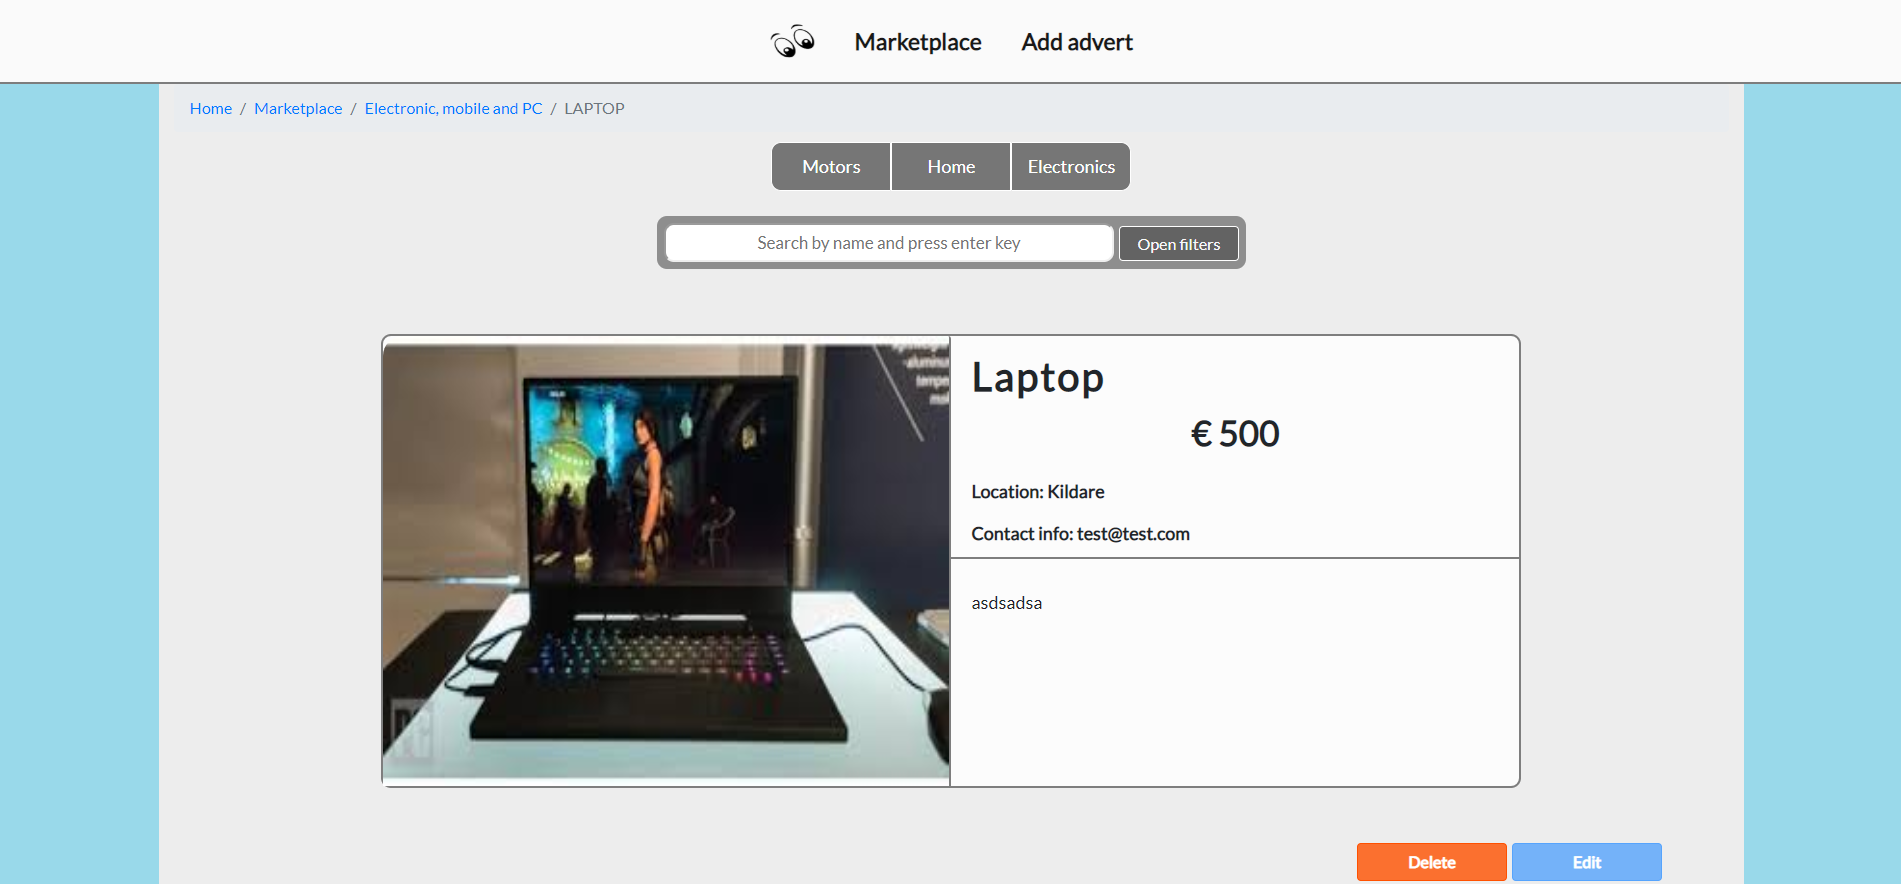
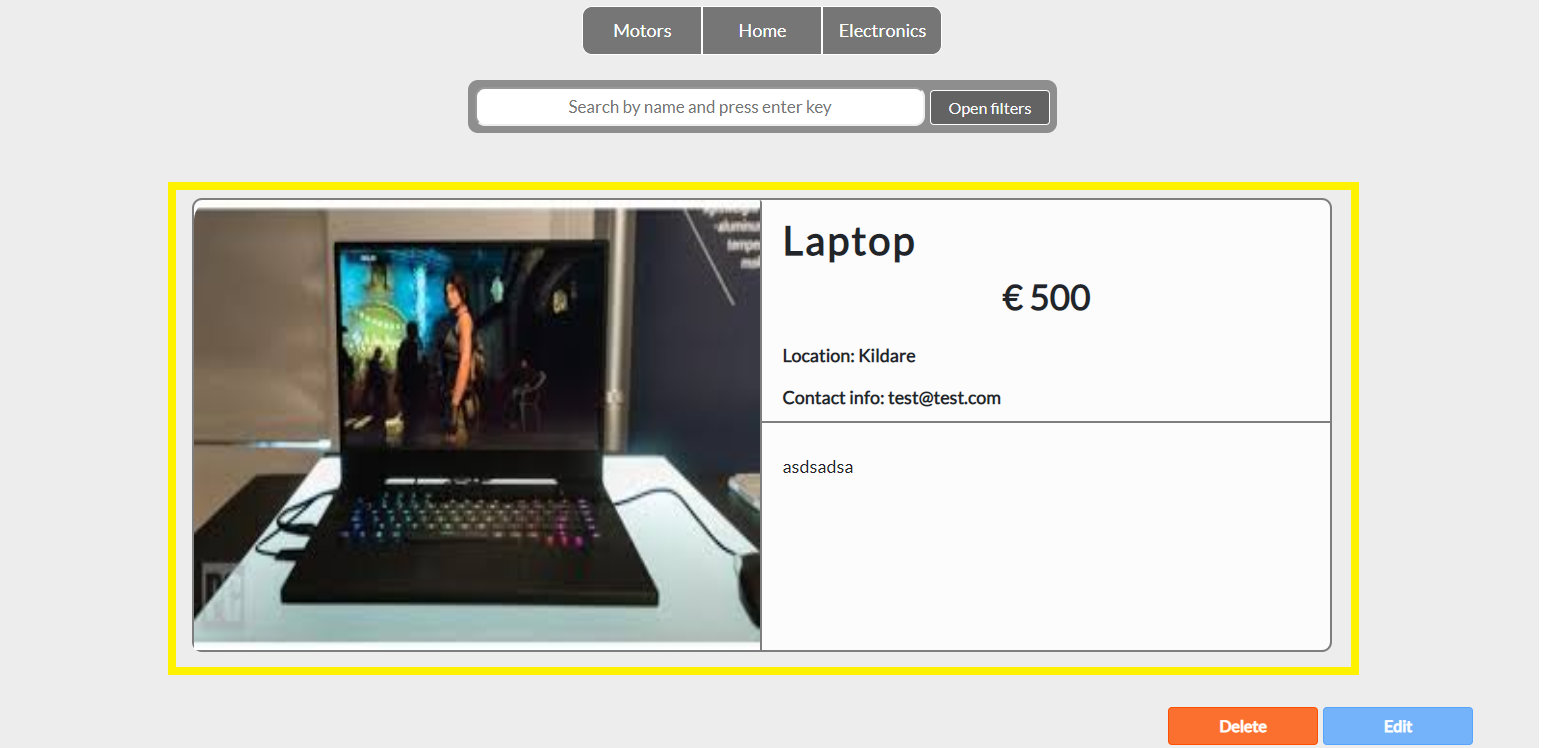
Styled images in user stories in readme.md

diff --git a/README.md b/README.md
@@ -53,14 +53,14 @@ I choose the name Snoop as in "to snoop around" and all similarities with Snoop 
   - user can use the search bar for specific word or part of the word. 
 
 <p align="center">
-  <img src="https://raw.githubusercontent.com/romangrubic/database-project/master/static/images/readme/user_stories/search-bar.png" width="500" height="300" alt="Seacr by part of the word">
+  <img src="https://raw.githubusercontent.com/romangrubic/database-project/master/static/images/readme/user_stories/search-bar.png" width="500" height="150" alt="Search by part of the word">
 </p>
 
 * **search by category**
   - user can search by specific category such as Motors, Home or Electronic by pressing button.
 
 <p align="center">
-  <img src="https://raw.githubusercontent.com/romangrubic/database-project/master/static/images/readme/user_stories/filter-buttons.png" width="500" height="300" alt="Filter buttons">
+  <img src="https://raw.githubusercontent.com/romangrubic/database-project/master/static/images/readme/user_stories/filter-buttons.png" width="500" height="200" alt="Filter buttons">
 </p>
 
 * **search by county**
@@ -79,7 +79,7 @@ I choose the name Snoop as in "to snoop around" and all similarities with Snoop 
 * **view my location in relation to Home page**
   - user can see location just beneath navigation bar. 
 <p align="center">
-  <img src="https://raw.githubusercontent.com/romangrubic/database-project/master/static/images/readme/user_stories/breadcrumbs.png" width="500" height="300" alt="View advert">
+  <img src="https://raw.githubusercontent.com/romangrubic/database-project/master/static/images/readme/user_stories/breadcrumbs.png" width="500" height="150" alt="Location of the user">
 </p>
 
 * **place my own advert**
